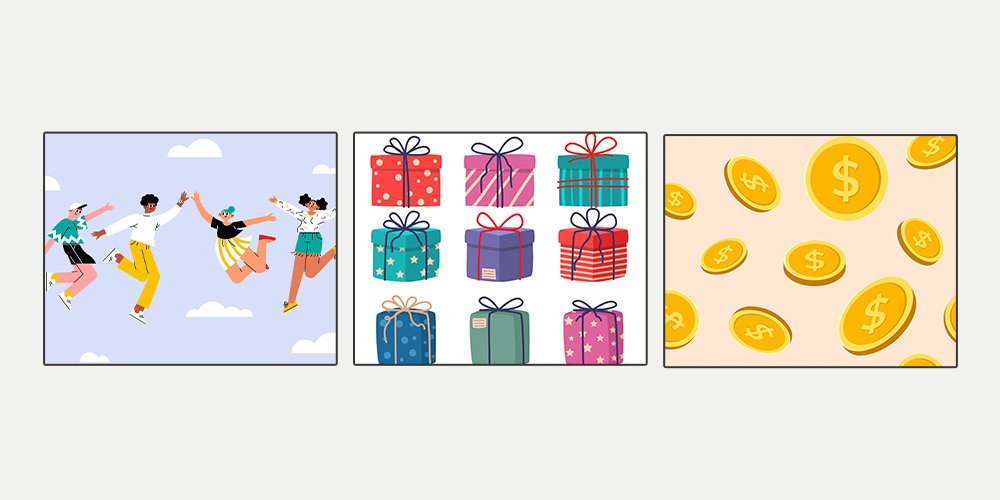
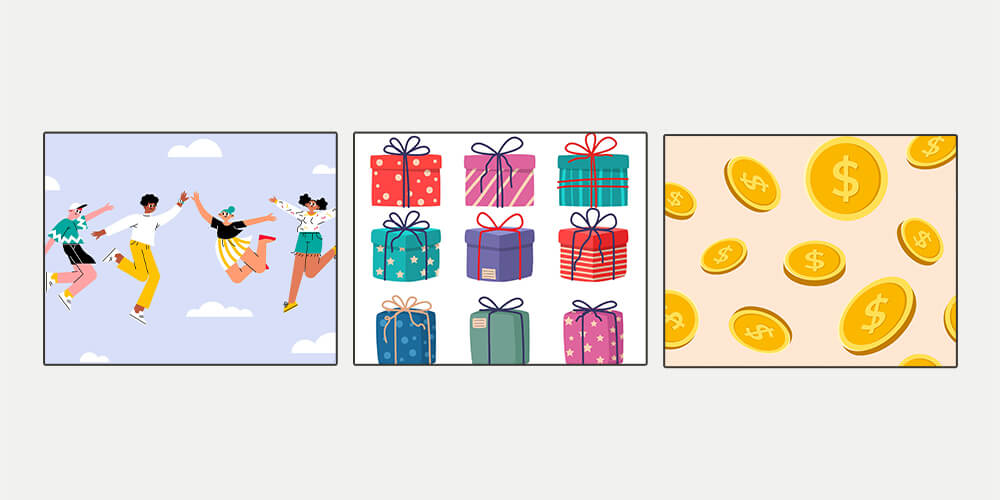
fix: 修復按紐 hover 樣式
pref: 圖片大小壓縮

diff --git a/pages/works/categories.vue b/pages/works/categories.vue
@@ -93,13 +93,18 @@ main.work-category {
     padding: 12px 24px;
     box-shadow: none;
 
-    &.active-link {
+    &.active-link, &.active-link:hover {
       border-color: $gray1;
       background-color: #fff;
       box-shadow: 2px 2px 0 0 $gray1;
       transform: translate(-1.5px, -1.5px);
       color: $gray1;
       text-align: left;
+    }
+
+    &:hover {
+      box-shadow: none;
+      transform: none;
     }
   }
 }

diff --git a/pages/404.vue b/pages/404.vue
@@ -1,0 +1,6 @@
+<template>
+  <main class="text-align-center mt-80 mb-80">
+    <h1 class="mb-20">Oh! 這個頁面不存在</h1>
+    <ElementBtn tag="NuxtLink" :to="{name: 'index'}">點此回到首頁</ElementBtn>
+  </main>
+</template>
